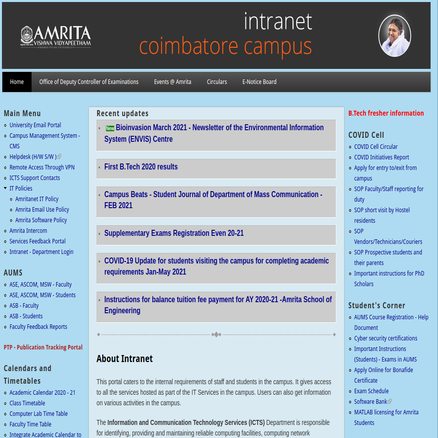
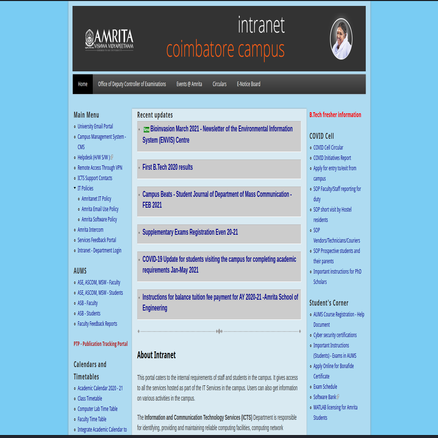
third commit

diff --git a/index.html b/index.html
@@ -40,7 +40,7 @@
             <h1>Welcome!</h1>
             <p>-------------------content (intro)------- here </p>
             <ul class="actions">
-                <li><a href="#one" class="button scrolly">Dive in</a></li>
+                <li><a href="#activity-1" class="button scrolly">Dive in</a></li>
             </ul>
         </div>
     </section>
@@ -48,7 +48,7 @@
     <!-- One -->
     <section id="activity-1" class="wrapper style2 spotlights">
         <section>
-            <a href="#" class="image"><img height="438" width="438" src="images/pic01.png"  alt="" data-position="center center"/></a>
+            <a href="#" class="image"><img src="images/pic01.png"  alt="" data-position="center center"/></a>
             <div class="content">
                 <div class="inner">
                     <h2>The Mystery of Intranet</h2>
@@ -87,17 +87,17 @@
 
     <section id="activity-2" class="wrapper style2 spotlights">
         <section>
-            <a href="#" class="image"><img style="object-fit: contain" src="images/pic01.png"  alt="" data-position="center center"/></a>
             <div class="content">
                 <div class="inner">
-                    <h2>The Mystery of Intranet</h2>
-                    <p>The college intranet site is an important source of information which a lot of freshers fail to explore.
-                        Timetables, circulars and other important information, and even links to student clubs and publications are posted here.
-                        The prime aim of this activity is to engage you in exploring intranet through a fun filled Treasure Hunt.</p>
+                    <h2>Introduction to Programming :)</h2>
+                    <p>Self learning is essential for survival in the field of computer science.
+                        Since new languages are coming into existence very often, it is not possible to teach them all as part of the curriculum,
+                        requiring engineers to code consulting documentation and references.
+                        To give a taste of the same, this activity involves writing code after referring to language documentation.</p>
                     <ul class="actions">
-                        <li><a href="https://intranet.cb.amrita.edu" class="button">Visit Intranet</a></li>
+                        <li><a href="https://intranet.cb.amrita.edu" class="button">Visit Python Documentation</a></li>
                         &nbsp;
-                        <li><a href="#" class="button">Submit Your Answers</a></li>
+                        <li><a href="#" class="button">Contest Link</a></li>
                     </ul>
 
                 </div>
